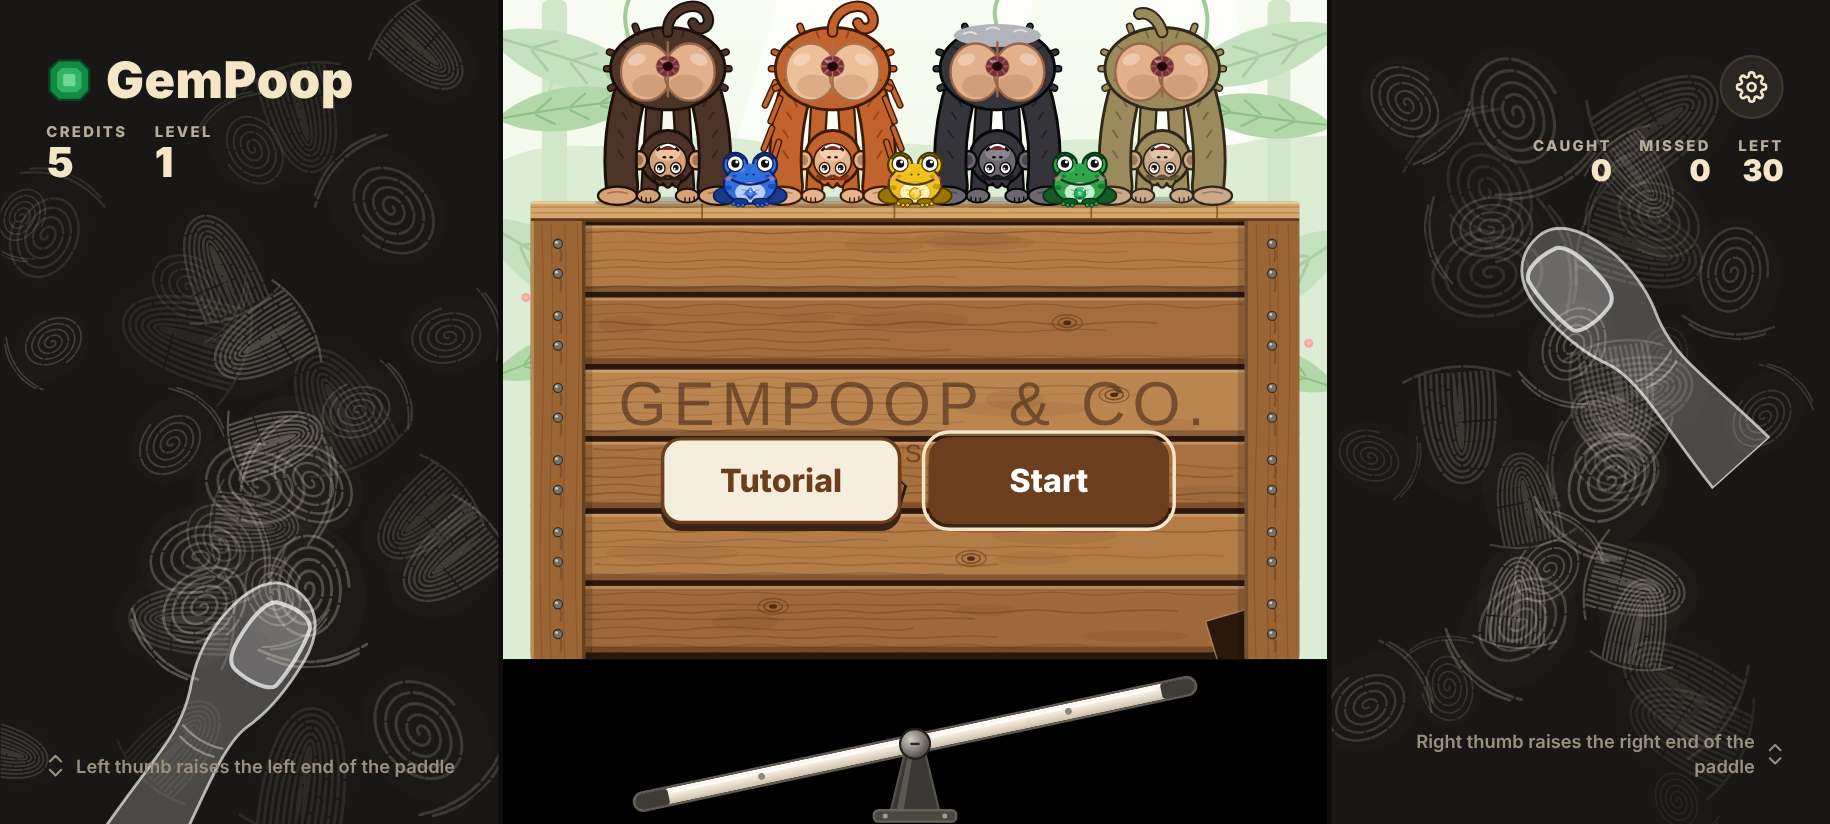
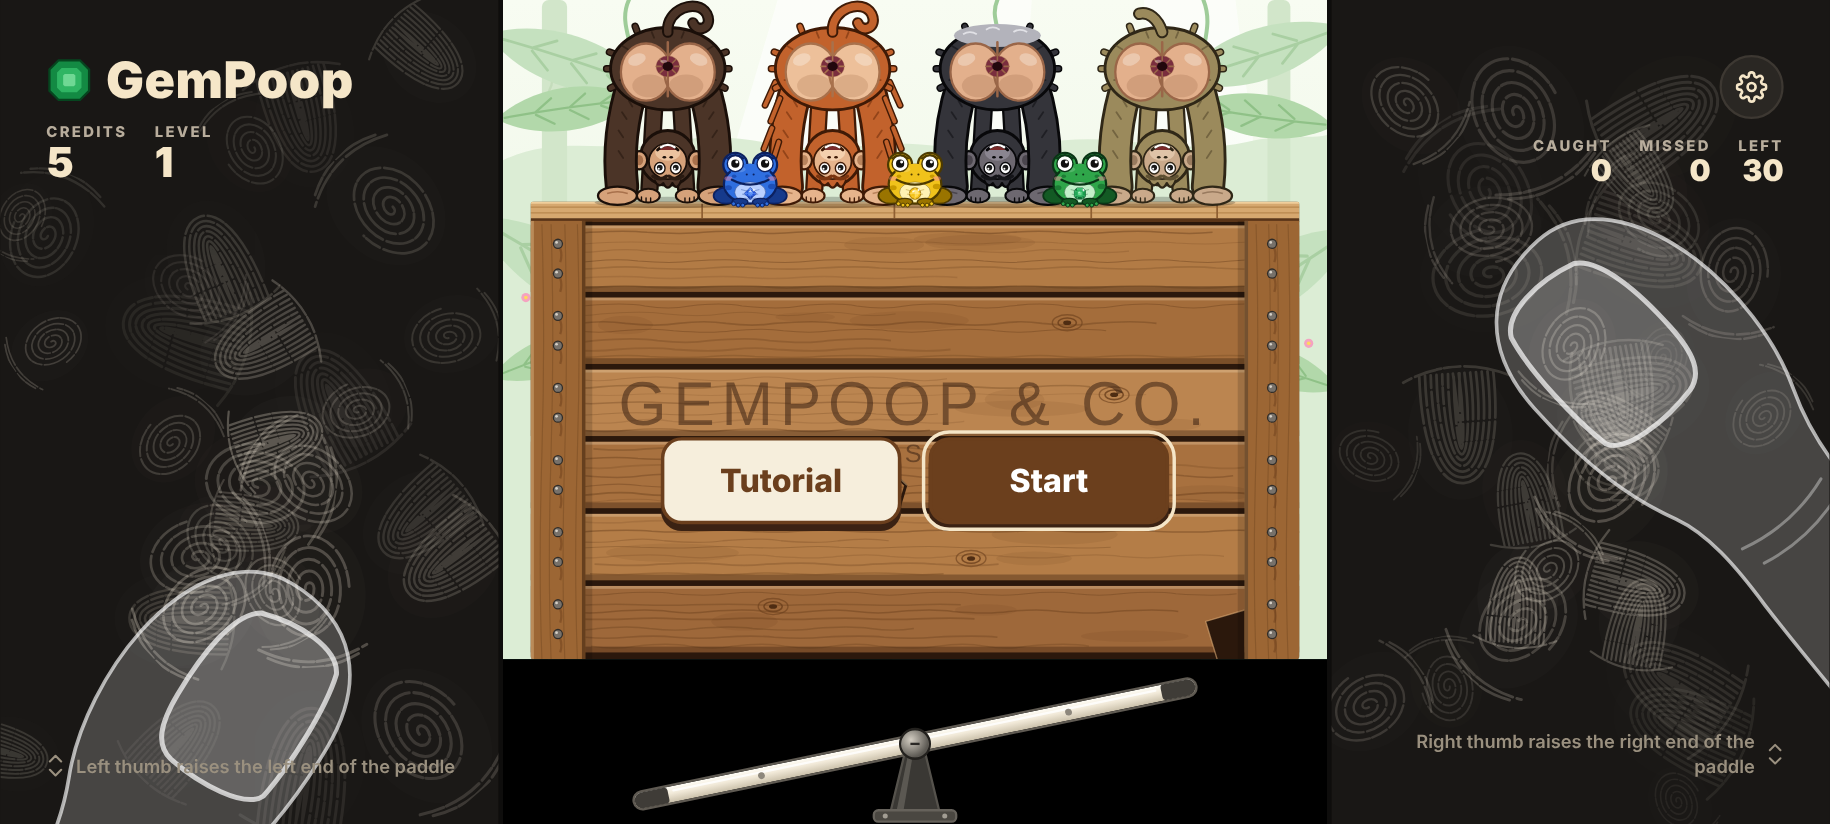
Dubbelt så stora, fylligare tummar som fortsätter ut ur bild
Claude-Session: https://claude.ai/code/session_01Cw3cyEmZXapUt12eHjAweu

diff --git a/index.html b/index.html
@@ -42,7 +42,7 @@
     pointer-events: none; display: none; }
   .tongue i { position: absolute; right: -7px; top: -4px; width: 16px; height: 16px; border-radius: 50%; background: #f27c9a; }
   .drop { position: absolute; left: 0; top: 0; width: 7px; height: 10px; border-radius: 50% 50% 50% 50% / 40% 40% 60% 60%; background: #c4102c; pointer-events: none; }
-  .thumb { position: absolute; left: 0; top: 0; width: 100px; height: 270px; pointer-events: none; display: none; transform-origin: 50px 4px; }
+  .thumb { position: absolute; left: 0; top: 0; width: 220px; height: 1800px; pointer-events: none; display: none; transform-origin: 110px 8px; }
   #tutBoard { position: absolute; left: 84px; width: 552px; top: 205px; height: 330px; display: none; flex-direction: column;
     align-items: center; justify-content: center; gap: 10px; text-align: center; color: #ffffff; pointer-events: none; }
   #tutBoard .tstep { font-size: 16px; font-weight: 900; letter-spacing: 4px; text-transform: uppercase; opacity: 0.9;
@@ -112,7 +112,7 @@
   <!-- left thumb area -->
   <div class="side" id="sideL">
     <div class="zone" id="zoneL"><div id="printsL"></div>
-      <div class="thumb" id="thumbL"><svg aria-hidden="true" width="100" height="270" viewBox="0 0 100 270"><path d="M50 4 C76 4 92 22 92 54 C92 88 87 110 79 128 C73 142 73 160 75 182 C77 210 81 238 83 270 L17 270 C19 238 23 210 25 182 C27 160 25 140 17 120 C9 98 8 72 12 52 C17 24 30 4 50 4 Z" fill="#ffffff" fill-opacity="0.22" stroke="#ffffff" stroke-opacity="0.65" stroke-width="2.5"/><path d="M45 22 C61 17 78 18 82 27 C86 42 85 70 82 85 C78 93 58 94 44 91 C36 89 33 81 33 67 C33 47 36 27 45 22 Z" fill="#ffffff" fill-opacity="0.18" stroke="#ffffff" stroke-opacity="0.7" stroke-width="3.5"/><path d="M30 156 q20 7 40 0 M33 166 q17 5 34 0" stroke="#ffffff" stroke-opacity="0.35" stroke-width="2" fill="none" stroke-linecap="round"/></svg></div>
+      <div class="thumb" id="thumbL"><svg aria-hidden="true" width="220" height="1800" viewBox="0 0 110 900"><path d="M55 4 C87 4 105 24 105 58 C105 94 99 117 91 135 C85 149 85 167 87 189 C90 232 94 320 98 900 L12 900 C16 320 20 232 23 189 C25 167 23 147 15 127 C6 105 5 77 9 56 C15 26 31 4 55 4 Z" fill="#ffffff" fill-opacity="0.2" stroke="#ffffff" stroke-opacity="0.65" stroke-width="1.6"/><path d="M50 22 C67 17 87 18 92 28 C96 44 95 74 92 90 C88 99 65 100 49 97 C40 95 37 86 37 71 C37 50 40 28 50 22 Z" fill="#ffffff" fill-opacity="0.16" stroke="#ffffff" stroke-opacity="0.7" stroke-width="2.2"/><path d="M32 164 q23 7 46 0 M35 175 q20 5 40 0" stroke="#ffffff" stroke-opacity="0.35" stroke-width="1.3" fill="none" stroke-linecap="round"/></svg></div>
       <div class="mline" id="lineL"></div>
       <div class="mring" id="ringL"><svg aria-hidden="true" width="26" height="34" viewBox="0 0 26 34" fill="none" stroke="#f5e6c8" stroke-width="3" stroke-linecap="round" stroke-linejoin="round"><path d="M5 11 L13 3 L21 11 M5 23 L13 31 L21 23"/></svg></div>
     </div>
@@ -135,7 +135,7 @@
   <!-- right thumb area -->
   <div class="side" id="sideR">
     <div class="zone" id="zoneR"><div id="printsR"></div>
-      <div class="thumb" id="thumbR"><div style="transform: scaleX(-1); width: 100px; height: 270px"><svg aria-hidden="true" width="100" height="270" viewBox="0 0 100 270"><path d="M50 4 C76 4 92 22 92 54 C92 88 87 110 79 128 C73 142 73 160 75 182 C77 210 81 238 83 270 L17 270 C19 238 23 210 25 182 C27 160 25 140 17 120 C9 98 8 72 12 52 C17 24 30 4 50 4 Z" fill="#ffffff" fill-opacity="0.22" stroke="#ffffff" stroke-opacity="0.65" stroke-width="2.5"/><path d="M45 22 C61 17 78 18 82 27 C86 42 85 70 82 85 C78 93 58 94 44 91 C36 89 33 81 33 67 C33 47 36 27 45 22 Z" fill="#ffffff" fill-opacity="0.18" stroke="#ffffff" stroke-opacity="0.7" stroke-width="3.5"/><path d="M30 156 q20 7 40 0 M33 166 q17 5 34 0" stroke="#ffffff" stroke-opacity="0.35" stroke-width="2" fill="none" stroke-linecap="round"/></svg></div></div>
+      <div class="thumb" id="thumbR"><div style="transform: scaleX(-1); width: 220px; height: 1800px"><svg aria-hidden="true" width="220" height="1800" viewBox="0 0 110 900"><path d="M55 4 C87 4 105 24 105 58 C105 94 99 117 91 135 C85 149 85 167 87 189 C90 232 94 320 98 900 L12 900 C16 320 20 232 23 189 C25 167 23 147 15 127 C6 105 5 77 9 56 C15 26 31 4 55 4 Z" fill="#ffffff" fill-opacity="0.2" stroke="#ffffff" stroke-opacity="0.65" stroke-width="1.6"/><path d="M50 22 C67 17 87 18 92 28 C96 44 95 74 92 90 C88 99 65 100 49 97 C40 95 37 86 37 71 C37 50 40 28 50 22 Z" fill="#ffffff" fill-opacity="0.16" stroke="#ffffff" stroke-opacity="0.7" stroke-width="2.2"/><path d="M32 164 q23 7 46 0 M35 175 q20 5 40 0" stroke="#ffffff" stroke-opacity="0.35" stroke-width="1.3" fill="none" stroke-linecap="round"/></svg></div></div>
       <div class="mline" id="lineR"></div>
       <div class="mring" id="ringR"><svg aria-hidden="true" width="26" height="34" viewBox="0 0 26 34" fill="none" stroke="#f5e6c8" stroke-width="3" stroke-linecap="round" stroke-linejoin="round"><path d="M5 11 L13 3 L21 11 M5 23 L13 31 L21 23"/></svg></div>
     </div>
@@ -1278,7 +1278,7 @@ window.GEMPOOP_SOUNDS = {"fart": ["T2dnUwACAAAAAAAAAAAmRAAAAAAAALC32aQBHgF2b3Jia
       var tipX = side === 'L' ? lastSide * 0.58 : lastSide * 0.42;
       var tx = side === 'L' ? lastSide + 360 : -360;
       var deg = Math.atan2(tx - tipX, y + 400) * 180 / Math.PI;   // aim a bit above the top edge so they stay slanted, like thumbs holding a phone
-      th.style.transform = 'translate(' + (tipX - 50).toFixed(1) + 'px,' + (y - 4).toFixed(1) + 'px) rotate(' + deg.toFixed(1) + 'deg)';
+      th.style.transform = 'translate(' + (tipX - 110).toFixed(1) + 'px,' + (y - 8).toFixed(1) + 'px) rotate(' + deg.toFixed(1) + 'deg)';
     });
     setText('score', String(s.score));
     setText('level', String(s.level));
